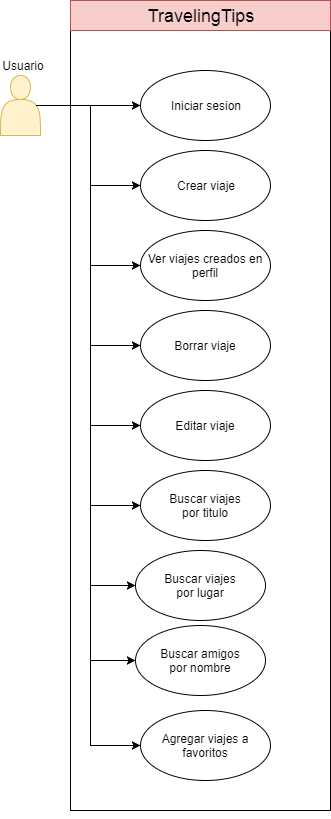
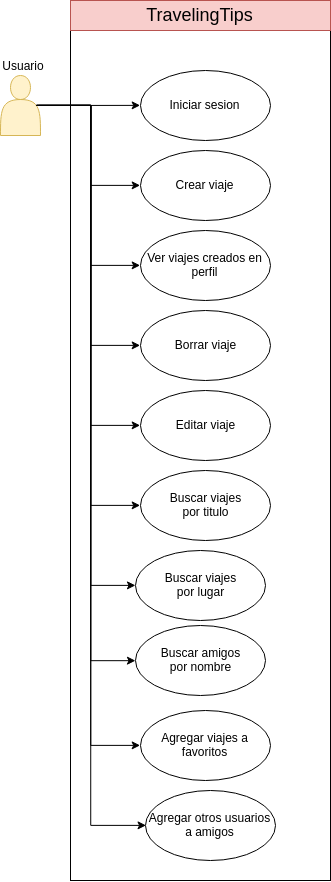
Add other users as friends and access to their profiles from mine

diff --git a/travelingtips-web/app/scripts/controllers/userController.js b/travelingtips-web/app/scripts/controllers/userController.js
@@ -7,12 +7,23 @@ app.controller('UserController', function($scope, $http, alertService, $state, $
   $scope.user = {}
   $scope.travels = [];
   $scope.favouriteTravels = [];
+  $scope.friends = [];
   $scope.travelsSize = 0;
   $scope.favsSize = 0;
+  $scope.friendsSize = 0;
   $scope.activeTravels = "active";
   $scope.activeFavs = "";
+  $scope.activeFriends = "";
   $scope.isSelectedTravels = true;
   $scope.isSelectedFavs = false;
+  $scope.isSelectedFriends = false;
+
+  var decodePhotoUrlsFrom = function(listOfFriends) {
+    listOfFriends.map(function(f) {
+      f.photoUrl = decodeURIComponent(f.photoUrl);
+    });
+    return listOfFriends;
+  }
 
   var getUser = function(userToken) {
     $http({
@@ -28,7 +39,8 @@ app.controller('UserController', function($scope, $http, alertService, $state, $
       }
 
       getUserTravels();
-      getFavouriteTravels()
+      getFavouriteTravels();
+      getUserFriends();
     });
   }
 
@@ -52,6 +64,16 @@ app.controller('UserController', function($scope, $http, alertService, $state, $
     });
   }
 
+  function getUserFriends() {
+  	$http({
+      method: 'GET',
+      url: 'http://localhost:8080/friends?user=' + $scope.user.token
+    }).then(function(result) {
+      $scope.friends = decodePhotoUrlsFrom(result.data);
+      $scope.friendsSize = $scope.friends.length;
+    });
+  }
+
   $scope.deleteTravel = function(travel) {
     $http({
       method: 'POST',
@@ -71,20 +93,47 @@ app.controller('UserController', function($scope, $http, alertService, $state, $
     });
   }
 
+  $scope.deleteFriend = function(friend) {
+    $http({
+      method: 'POST',
+      url: 'http://localhost:8080/deleteFriend/' + $scope.loggedId + '/' + friend
+    }).then(function(result) {
+      alertService.showSuccessAlert('Amigo borrado');
+      getUserFriends();
+    });
+  }
+
+  $scope.addFriend = function(friendToken) {
+    $http({
+      method: 'POST',
+      url: 'http://localhost:8080/addFriend/' + $scope.loggedId + '/' + friendToken
+    }).then(function(result) {
+      alertService.showSuccessAlert('Agregado!');
+    });
+  }
+
   $scope.showTravels = function() {
-    $scope.activeTravels = "active";
-    $scope.isSelectedTravels = true;
-    $scope.activeFavs = "";
-    $scope.isSelectedFavs = false;
+    manageSections("active", true, "", false, "", false);
     getUserTravels();
   }
 
   $scope.showFavourites = function() {
-    $scope.activeTravels = "";
-    $scope.isSelectedTravels = false;
-    $scope.activeFavs = "active";
-    $scope.isSelectedFavs = true;
+    manageSections("", false, "active", true, "", false);
     getFavouriteTravels();
+  }
+
+  $scope.showFriends = function() {
+    manageSections("", false, "", false, "active", true);
+    getFavouriteTravels();
+  }
+
+  var manageSections = function(activeTravel, selectedTravel, activeFav, selectedFav, activeFriend, selectedFriend) {
+      $scope.activeTravels = activeTravel;
+      $scope.isSelectedTravels = selectedTravel;
+      $scope.activeFavs = activeFav;
+      $scope.isSelectedFavs = selectedFav;
+      $scope.activeFriends = activeFriend;
+      $scope.isSelectedFriends = selectedFriend;
   }
 
   getUser($stateParams.token);

diff --git a/travelingtips-web/app/views/userProfile.html b/travelingtips-web/app/views/userProfile.html
@@ -16,14 +16,14 @@
             <div class="profile-usertitle-name">{{user.name}}</div>
           </div>
           <div class="profile-userbuttons">
-            <button ng-show="!isOwnerOfProfile" type="button" class="btn">Agregar Amigo</button>
-            <button ng-show="!isOwnerOfProfile" type="button" class="btn"><span class="glyphicon glyphicon-envelope"></span></button>
+            <button ng-show="!isOwnerOfProfile" type="button" class="btn" ng-click="addFriend(user.token)">Agregar Amigo</button>
             <a ui-sref="createMap"><button ng-show="isOwnerOfProfile" type="button" class="btn">Crear Viaje</button></a>
           </div>
           <div class="profile-usermenu">
             <ul class="list-group">
               <li class="list-group-item text-right" ng-class="activeTravels" ng-click="showTravels()"><span class="pull-left"><strong>Viajes</strong></span>{{travelsSize}}</li>
               <li class="list-group-item text-right" ng-class="activeFavs" ng-click="showFavourites()"><span class="pull-left"><strong>Favoritos</strong></span>{{favsSize}}</li>
+              <li class="list-group-item text-right" ng-class="activeFriends" ng-click="showFriends()"><span class="pull-left"><strong>Amigos</strong></span>{{friendsSize}}</li>
             </ul>
           </div>
         </div>
@@ -72,6 +72,28 @@
                   <button ng-show="isOwnerOfProfile" ng-click="removeTravelFromFavs(travel)" type="button" class="btn"><span class="glyphicon glyphicon-remove"></span></button>
                 </div>
               </div>
+            </div>
+          </div>
+        </div>
+
+        <div class="panel panel-default target" ng-show="isSelectedFriends">
+          <div class="panel-heading" contenteditable="false">Amigos</div>
+          <div class="panel-body">
+            <div ng-repeat="friend in friends">
+              <div class="col-sm-2">
+                <a ui-sref="userProfile({token: friend.token})">
+                  <div class="thumbnail">
+                    <div class="caption">
+                      <img src="{{friend.photoUrl}}" class="profile-userpic-thumbnail" alt="">
+                      <h3>{{friend.name}}</h3>
+                    </div>
+                  </div>
+                </a>
+                <div class="btnCrudProfile">
+                  <button ng-show="isOwnerOfProfile" ng-click="deleteFriend(friend.token)" type="button" class="btn"><span class="glyphicon glyphicon-remove"></span></button>
+                </div>
+              </div>
+            </div>
             </div>
           </div>
         </div>

diff --git a/travelingtips-web/app/scripts/controllers/viewMapController.js b/travelingtips-web/app/scripts/controllers/viewMapController.js
@@ -22,6 +22,7 @@ app.controller('ViewMapController', function($scope, $http, mapAction, $statePar
 
   var drawMapMarkers = function() {
     var markers = $scope.travel.placesVisited;
+    var bounds = new google.maps.LatLngBounds();
     for (var i = 0; i < markers.length; i++) {
       var marker = new google.maps.Marker({
         position: new google.maps.LatLng(parseFloat(markers[i].latitude), parseFloat(markers[i].longitude)),
@@ -31,8 +32,10 @@ app.controller('ViewMapController', function($scope, $http, mapAction, $statePar
         comment: markers[i].comment
       });
       addInfoWindow(marker);
+      bounds.extend(marker.getPosition());
     }
-    mapAction.setMapCenter($scope.mapView, markers[0]);
+    //mapAction.setMapCenter($scope.mapView, markers[0]);
+    $scope.mapView.fitBounds(bounds);
 
   }
 

diff --git a/src/main/java/unq/tip/travelingtips/services/UserService.java b/src/main/java/unq/tip/travelingtips/services/UserService.java
@@ -8,6 +8,7 @@ import unq.tip.travelingtips.model.User;
 import unq.tip.travelingtips.repositories.TravelRepository;
 import unq.tip.travelingtips.repositories.UserRepository;
 
+import java.util.ArrayList;
 import java.util.List;
 
 @Service
@@ -39,10 +40,6 @@ public class UserService {
         userRepository.save(userFound);
     }
 
-    public List<Travel> getFavourites(String userToken) {
-        return userRepository.findByToken(userToken).getFavouriteTravels();
-    }
-
     public void deleteFavouriteTravel(Long travelId, String userToken) {
         User user = userRepository.findByToken(userToken);
         Travel travel = travelRepository.findOne(travelId);
@@ -50,8 +47,33 @@ public class UserService {
         userRepository.save(user);
     }
 
+    public List<Travel> getFavourites(String userToken) {
+        return userRepository.findByToken(userToken).getFavouriteTravels();
+    }
+
     public boolean existsToken(String token) {
         User userFound = userRepository.findByToken(token);
         return userFound != null;
+    }
+
+    public void addFriend(String userToken, String friendToken) {
+        User userFound = userRepository.findByToken(userToken);
+        userFound.addFriend(friendToken);
+        userRepository.save(userFound);
+    }
+
+    public void deleteFriend(String userToken, String friendToken) {
+        User userFound = userRepository.findByToken(userToken);
+        userFound.removeFriend(friendToken);
+        userRepository.save(userFound);
+    }
+
+    public List<User> getFriends(String userToken) {
+        List<User> friends = new ArrayList<>();
+        List<String> friendsToken = userRepository.findByToken(userToken).getFriends();
+        for(String friend : friendsToken) {
+            friends.add(userRepository.findByToken(friend));
+        }
+        return friends;
     }
 }

diff --git a/src/main/java/unq/tip/travelingtips/model/User.java b/src/main/java/unq/tip/travelingtips/model/User.java
@@ -6,7 +6,7 @@ import java.util.ArrayList;
 import java.util.List;
 
 @Entity
-@Table(uniqueConstraints={@UniqueConstraint(columnNames={"ID", "TOKEN"})})
+//@Table(uniqueConstraints={@UniqueConstraint(columnNames={"ID", "TOKEN"})})
 public class User implements Serializable {
 
     private static final long serialVersionUID = 1L;
@@ -22,6 +22,9 @@ public class User implements Serializable {
     @OneToMany(fetch = FetchType.EAGER, cascade = CascadeType.ALL)
     private List<Travel> favouriteTravels;
 
+    @ElementCollection
+    private List<String> friends;
+
     public User() {}
 
     public User(String aToken, String aName, String aUrl) {
@@ -32,6 +35,10 @@ public class User implements Serializable {
 
     public static long getSerialVersionUID() {
         return serialVersionUID;
+    }
+
+    public Long getId() {
+        return id;
     }
 
     public void setId(Long id) {
@@ -76,5 +83,21 @@ public class User implements Serializable {
 
     public void removeFavouriteTravel(Travel travel) {
         favouriteTravels.remove(travel);
+    }
+
+    public List<String> getFriends() {
+        return friends;
+    }
+
+    public void setFriends(List<String> friends) {
+        this.friends = friends;
+    }
+
+    public void addFriend(String friend) {
+        friends.add(friend);
+    }
+
+    public void removeFriend(String friend) {
+        friends.remove(friend);
     }
 }

diff --git a/src/main/java/unq/tip/travelingtips/controllers/UserController.java b/src/main/java/unq/tip/travelingtips/controllers/UserController.java
@@ -52,4 +52,20 @@ public class UserController {
         userService.deleteFavouriteTravel(travelId, user);
     }
 
+    @RequestMapping(value = "/addFriend/{user}/{friend}", method = RequestMethod.POST)
+    public @ResponseBody void addToFavourites(@PathVariable("user") String user,
+                                              @PathVariable("friend") String friend) {
+        userService.addFriend(user, friend);
+    }
+
+    @RequestMapping(value = "/deleteFriend/{user}/{friend}", method = RequestMethod.POST)
+    public @ResponseBody void deleteFavouriteTravel(@PathVariable("user") String user,
+                                                    @PathVariable("friend") String friend) {
+        userService.deleteFriend(user, friend);
+    }
+
+    @RequestMapping("/friends")
+    public @ResponseBody List<User> getFriends(@RequestParam(value="user", required=true) String userId) {
+        return userService.getFriends(userId);
+    }
 }

diff --git a/src/main/java/unq/tip/travelingtips/controllers/pojo/UserPojo.java b/src/main/java/unq/tip/travelingtips/controllers/pojo/UserPojo.java
@@ -1,6 +1,7 @@
 package unq.tip.travelingtips.controllers.pojo;
 
 import unq.tip.travelingtips.model.Travel;
+import unq.tip.travelingtips.model.User;
 
 import java.util.List;
 
@@ -11,6 +12,7 @@ public class UserPojo {
     private String name;
     private String photoUrl;
     private List<Travel> favouriteTravels;
+    private List<User> friends;
 
 
     public Long getId() {
@@ -51,5 +53,13 @@ public class UserPojo {
 
     public void setFavouriteTravels(List<Travel> favouriteTravels) {
         this.favouriteTravels = favouriteTravels;
+    }
+
+    public List<User> getFriends() {
+        return friends;
+    }
+
+    public void setFriends(List<User> friends) {
+        this.friends = friends;
     }
 }
